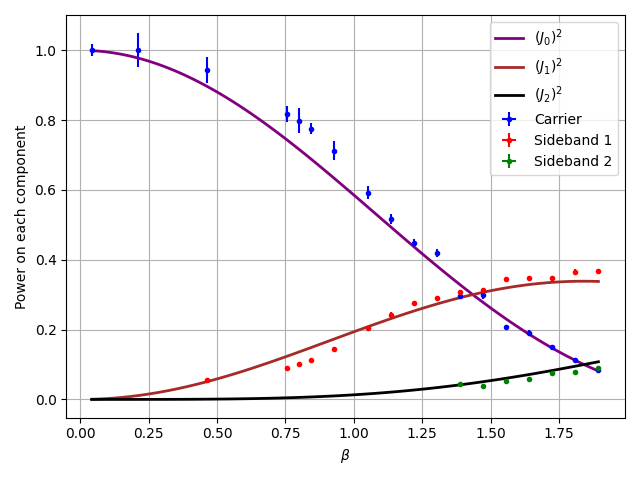
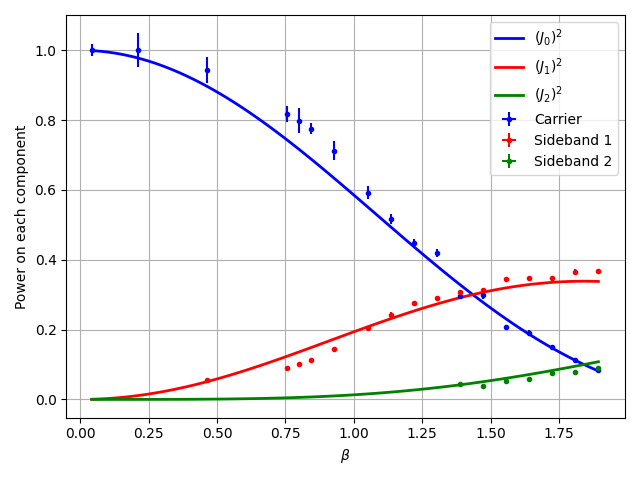
bessel and vpi plots

diff --git a/bessel_analysis_2.py b/bessel_analysis_2.py
@@ -4,7 +4,8 @@ from uncertainties import ufloat
 import uncertainties.unumpy as unp
 import numpy as np
 from scipy.special import jv
-from scipy.optimize import fsolve, curve_fit
+from scipy.optimize import curve_fit
+from scipy import odr
 
 df = pd.read_csv('data_bessel/clean_data/bessel_sidebands.csv')
 df = df[df['title'] != 'bessel00003']
@@ -50,14 +51,16 @@ for i, (label, data) in enumerate(grouped_data.items()):
     pk_types = {label: group for label, group in data.groupby(data['type'])}
 
     for pk, data2 in pk_types.items():
-        mean_val = sum(unp.uarray(data2['lor_A'].to_numpy(), data2['lor_d_A'].to_numpy())) / len(data2.index)
+        mean_val = sum(unp.uarray(data2['lor_A'].to_numpy(
+        ), data2['lor_d_A'].to_numpy())) / len(data2.index)
         norm_val_mean = mean_val / total_sum
         if pk == 'carrier':
             A_c.append(norm_val_mean.nominal_value)
             dA_c.append(norm_val_mean.std_dev)
             mod_carr.append(mod_ampl[i])
         elif pk == 'sb_1':
-            val_r = unp.uarray(data2['lor_A'].to_numpy(), data2['lor_d_A'].to_numpy())[0]
+            val_r = unp.uarray(data2['lor_A'].to_numpy(),
+                               data2['lor_d_A'].to_numpy())[0]
             norm_val_r = val_r / total_sum
             A_s1_r.append(norm_val_r.nominal_value)
             dA_s1_r.append(norm_val_r.std_dev)
@@ -66,13 +69,15 @@ for i, (label, data) in enumerate(grouped_data.items()):
             dA_s1_mean.append(norm_val_mean.std_dev)
             mod_sb1_mean.append(mod_ampl[i])
             if len(data2.index) == 2:
-                val_l = unp.uarray(data2['lor_A'].to_numpy(), data2['lor_d_A'].to_numpy())[1]
+                val_l = unp.uarray(
+                    data2['lor_A'].to_numpy(), data2['lor_d_A'].to_numpy())[1]
                 norm_val_l = val_l / total_sum
                 A_s1_l.append(norm_val_l.nominal_value)
                 dA_s1_l.append(norm_val_l.std_dev)
                 mod_sb1_l.append(mod_ampl[i])
         else:
-            val_r = unp.uarray(data2['lor_A'].to_numpy(), data2['lor_d_A'].to_numpy())[0]
+            val_r = unp.uarray(data2['lor_A'].to_numpy(),
+                               data2['lor_d_A'].to_numpy())[0]
             norm_val_r = val_r / total_sum
             A_s2_r.append(norm_val_r.nominal_value)
             dA_s2_r.append(norm_val_r.std_dev)
@@ -80,7 +85,8 @@ for i, (label, data) in enumerate(grouped_data.items()):
             A_s2_mean.append(norm_val_mean.nominal_value)
             dA_s2_mean.append(norm_val_mean.std_dev)
             mod_sb2_mean.append(mod_ampl[i])
-            val_l = unp.uarray(data2['lor_A'].to_numpy(), data2['lor_d_A'].to_numpy())[1]
+            val_l = unp.uarray(data2['lor_A'].to_numpy(),
+                               data2['lor_d_A'].to_numpy())[1]
             norm_val_l = val_l / total_sum
             A_s2_l.append(norm_val_l.nominal_value)
             dA_s2_l.append(norm_val_l.std_dev)
@@ -89,25 +95,31 @@ for i, (label, data) in enumerate(grouped_data.items()):
 
 mod_carr = np.array(mod_carr)
 mod_sb1_l = np.array(mod_sb1_l)
+mod_sb1_r = np.array(mod_sb1_r)
+mod_sb2_l = np.array(mod_sb2_l)
 mod_sb2_r = np.array(mod_sb2_r)
 mod_sb1_mean = np.array(mod_sb1_mean)
 mod_sb2_mean = np.array(mod_sb2_mean)
 
+
 def bessel0_squared(x, k):
     return (jv(0, k * x))**2
 
-popt_beta, pcov_beta = curve_fit(bessel0_squared, mod_carr, A_c, sigma=dA_c, absolute_sigma=True, p0=[4], bounds=(0, np.inf))
+
+popt_beta, pcov_beta = curve_fit(
+    bessel0_squared, mod_carr, A_c, sigma=dA_c, absolute_sigma=True, p0=[4], bounds=(0, np.inf))
 
 x_first_plot = np.linspace(min(mod_carr), max(mod_carr), 100)
 y_first_plot = bessel0_squared(x_first_plot, *popt_beta)
 
-k = ufloat(popt_beta[0], np.sqrt(pcov_beta[0,0]))
+k = ufloat(popt_beta[0], np.sqrt(pcov_beta[0, 0]))
 v_pi = np.pi / k
 
 plt.figure()
 plt.errorbar(mod_carr, A_c, dA_c, ls='',
              label='Carrier', color='blue', fmt='.')
-plt.plot(x_first_plot, y_first_plot, label='$(J_0)^2$', color='purple', linewidth=2)
+plt.plot(x_first_plot, y_first_plot, label='$(J_0)^2$',
+         color='red', linewidth=2)
 plt.xlabel(r'$V_{pp}$')
 plt.ylabel('Normalized power')
 plt.title(f'Estimating $V_\\pi =$ ({v_pi}) V')
@@ -119,9 +131,14 @@ plt.savefig('data_bessel/figures/bessel_0.png')
 beta_carr = mod_carr * k
 beta_sb1_mean = mod_sb1_mean * k
 beta_sb2_mean = mod_sb2_mean * k
+beta_sb1_l = mod_sb1_l * k
+beta_sb1_r = mod_sb1_r * k
+beta_sb2_l = mod_sb2_l * k
+beta_sb2_r = mod_sb2_r * k
 
-x_second_plot = np.linspace(min(unp.nominal_values(beta_carr)), max(unp.nominal_values(beta_carr)), 100)
-y_second_plot_0 = bessel0_squared(x_second_plot, 1)
+x_second_plot = np.linspace(min(unp.nominal_values(
+    beta_carr)), max(unp.nominal_values(beta_carr)), 100)
+y_second_plot_0 = (jv(0, x_second_plot))**2
 y_second_plot_1 = (jv(1, x_second_plot))**2
 y_second_plot_2 = (jv(2, x_second_plot))**2
 
@@ -133,15 +150,78 @@ plt.errorbar(unp.nominal_values(beta_sb1_mean), A_s1_mean, xerr=unp.std_devs(bet
 plt.errorbar(unp.nominal_values(beta_sb2_mean), A_s2_mean, xerr=unp.std_devs(beta_sb2_mean), yerr=dA_s2_mean, ls='',
              label='Sideband 2', fmt='.g')
 plt.plot(x_second_plot, y_second_plot_0,
-         label='$(J_0)^2$', color='purple', linewidth=2)
+         label='$(J_0)^2$', color='blue', linewidth=2)
 plt.plot(x_second_plot, y_second_plot_1,
-         label='$(J_1)^2$', color='brown', linewidth=2)
+         label='$(J_1)^2$', color='red', linewidth=2)
 plt.plot(x_second_plot, y_second_plot_2,
-         label='$(J_2)^2$', color='black', linewidth=2)
+         label='$(J_2)^2$', color='green', linewidth=2)
 plt.xlabel(r'$\beta$')
 plt.ylabel('Power on each component')
 plt.legend()
 plt.grid()
 plt.tight_layout()
 plt.savefig('data_bessel/figures/bessel_functions_mean.png')
+
+
+def sb1l_func(par, x):
+    return (-jv(1, x) + par[0]/2*(jv(0, x) + jv(2, x)))**2
+
+
+def sb1r_func(par, x):
+    return (jv(1, x) + par[0]/2*(jv(0, x) + jv(2, x)))**2
+
+
+def sb2l_func(par, x):
+    return (-jv(2, x) + par[0]/2*(jv(1, x) + jv(3, x)))**2
+
+
+def sb2r_func(par, x):
+    return (-jv(2, x) + par[0]/2*(jv(1, x) + jv(3, x)))**2
+
+
+def odr_fit(func, x, y, xerr, yerr, beta0):
+    mymodel = odr.Model(func)
+    data = odr.RealData(x, y, xerr, yerr)
+    odr_ = odr.ODR(data, mymodel, beta0=beta0)
+    out_ = odr_.run()
+    return out_
+
+
+out_sb1l = odr_fit(sb1l_func, unp.nominal_values(beta_sb1_l),
+                   A_s1_l, unp.std_devs(beta_sb1_l), dA_s1_l, [0.1])
+out_sb1r = odr_fit(sb1r_func, unp.nominal_values(beta_sb1_r),
+                   A_s1_r, unp.std_devs(beta_sb1_r), dA_s1_r, [0.1])
+out_sb2l = odr_fit(sb2l_func, unp.nominal_values(beta_sb2_l),
+                   A_s2_l, unp.std_devs(beta_sb2_l), dA_s2_l, [0.1])
+out_sb2r = odr_fit(sb2r_func, unp.nominal_values(beta_sb2_r),
+                   A_s2_r, unp.std_devs(beta_sb2_r), dA_s2_r, [0.1])
+
+y_third_plot_0 = sb1l_func(out_sb1l.beta, x_second_plot)
+y_third_plot_1 = sb1r_func(out_sb1r.beta, x_second_plot)
+y_third_plot_2 = sb2l_func(out_sb2l.beta, x_second_plot)
+y_third_plot_3 = sb2r_func(out_sb2r.beta, x_second_plot)
+
+plt.figure()
+plt.errorbar(unp.nominal_values(beta_sb1_l), A_s1_l, xerr=unp.std_devs(beta_sb1_l), yerr=dA_s1_l, ls='',
+             label='SB1 left', color='blue', fmt='.')
+plt.errorbar(unp.nominal_values(beta_sb1_r), A_s1_r, xerr=unp.std_devs(beta_sb1_r), yerr=dA_s1_r, ls='',
+             label='SB1 right', color='red', fmt='.')
+plt.errorbar(unp.nominal_values(beta_sb2_l), A_s2_l, xerr=unp.std_devs(beta_sb2_l), yerr=dA_s2_l, ls='',
+             label='SB2 left', color='green', fmt='.')
+plt.errorbar(unp.nominal_values(beta_sb2_r), A_s2_r, xerr=unp.std_devs(beta_sb2_r), yerr=dA_s2_r, ls='',
+             label='SB2 right', color='orange', fmt='.')
+plt.plot(x_second_plot, y_third_plot_0,
+         label=f'$\\alpha = $ {out_sb1l.beta[0]:.2g} $\\pm$ {out_sb1l.sd_beta[0]:.2g}', color='blue', linewidth=2)
+plt.plot(x_second_plot, y_third_plot_1,
+         label=f'$\\alpha = $ {out_sb1r.beta[0]:.2g} $\\pm$ {out_sb1r.sd_beta[0]:.2g}', color='red', linewidth=2)
+plt.plot(x_second_plot, y_third_plot_2,
+         label=f'$\\alpha = $ {out_sb2l.beta[0]:.2g} $\\pm$ {out_sb2l.sd_beta[0]:.2g}', color='green', linewidth=2)
+plt.plot(x_second_plot, y_third_plot_3,
+         label=f'$\\alpha = $ {out_sb2r.beta[0]:.2g} $\\pm$ {out_sb2r.sd_beta[0]:.2g}', color='orange', linewidth=2)
+plt.xlabel(r'$\beta$')
+plt.ylabel('Power on each component')
+plt.legend()
+plt.grid()
+plt.tight_layout()
+plt.savefig('data_bessel/figures/bessel_functions_left_right.png')
 plt.show()

diff --git a/error_signal_slope.py b/error_signal_slope.py
@@ -95,13 +95,23 @@ y = (jv(1, x))**2 / (jv(0, x))**2
 beta = [fsolve(partial(extract_beta, asac=ratio.nominal_value), 0.9)[0]
         for ratio in As_Ac]
 
+print(beta)
+
 v_pi = mod_ampl * np.pi / beta
 
+def linear(x, a, b):
+    return a * x + b
+
+popt, pcov = curve_fit(linear, mod_f, v_pi)
+x_line = np.linspace(min(mod_f), max(mod_f))
+
 plt.figure()
-plt.scatter(mod_f, v_pi, color='black', marker='o', s=20)
+plt.scatter(mod_f, v_pi, color='blue', marker='o', s=20, label='data')
+plt.plot(x_line, linear(x_line, *popt), color='red', linewidth=2, label='linear fit')
 plt.xlabel('Frequency modulation [MHz]')
 plt.ylabel(r'$\text{V}_{\pi}$ [V]')
 plt.grid()
+plt.legend()
 plt.tight_layout()
 plt.savefig('data_non_confocal/figures/v_pi_estimate.png')
 plt.show()
